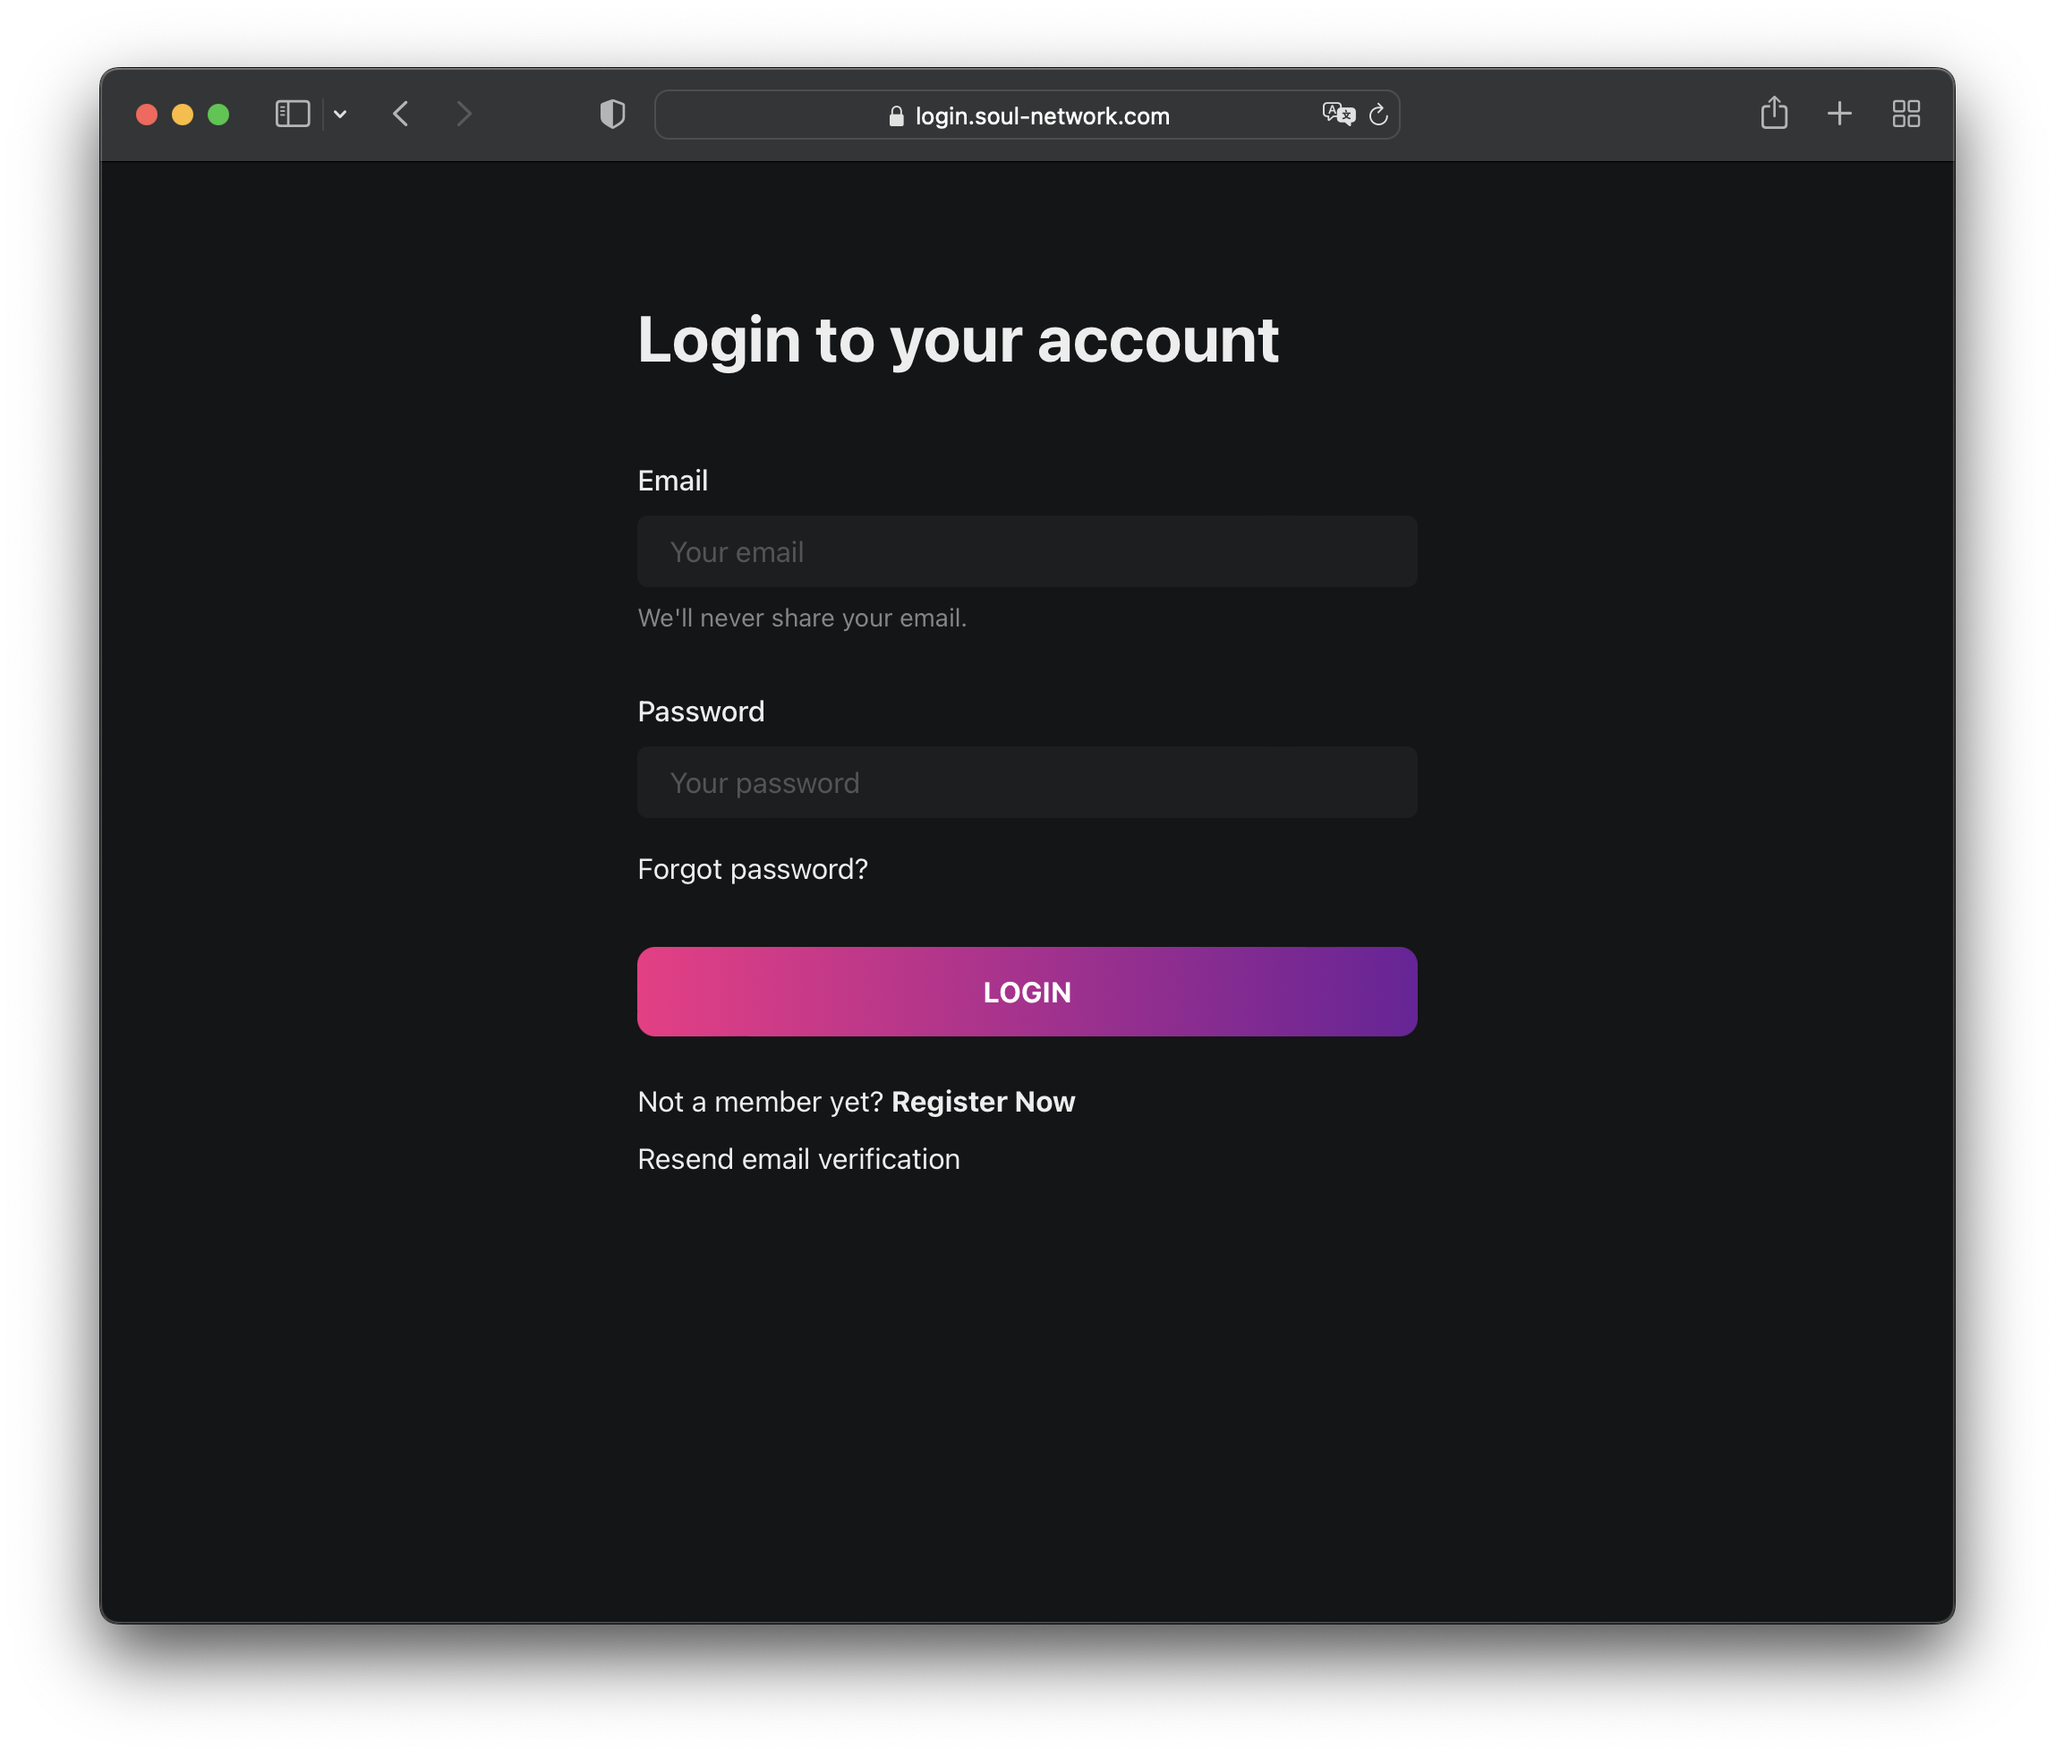
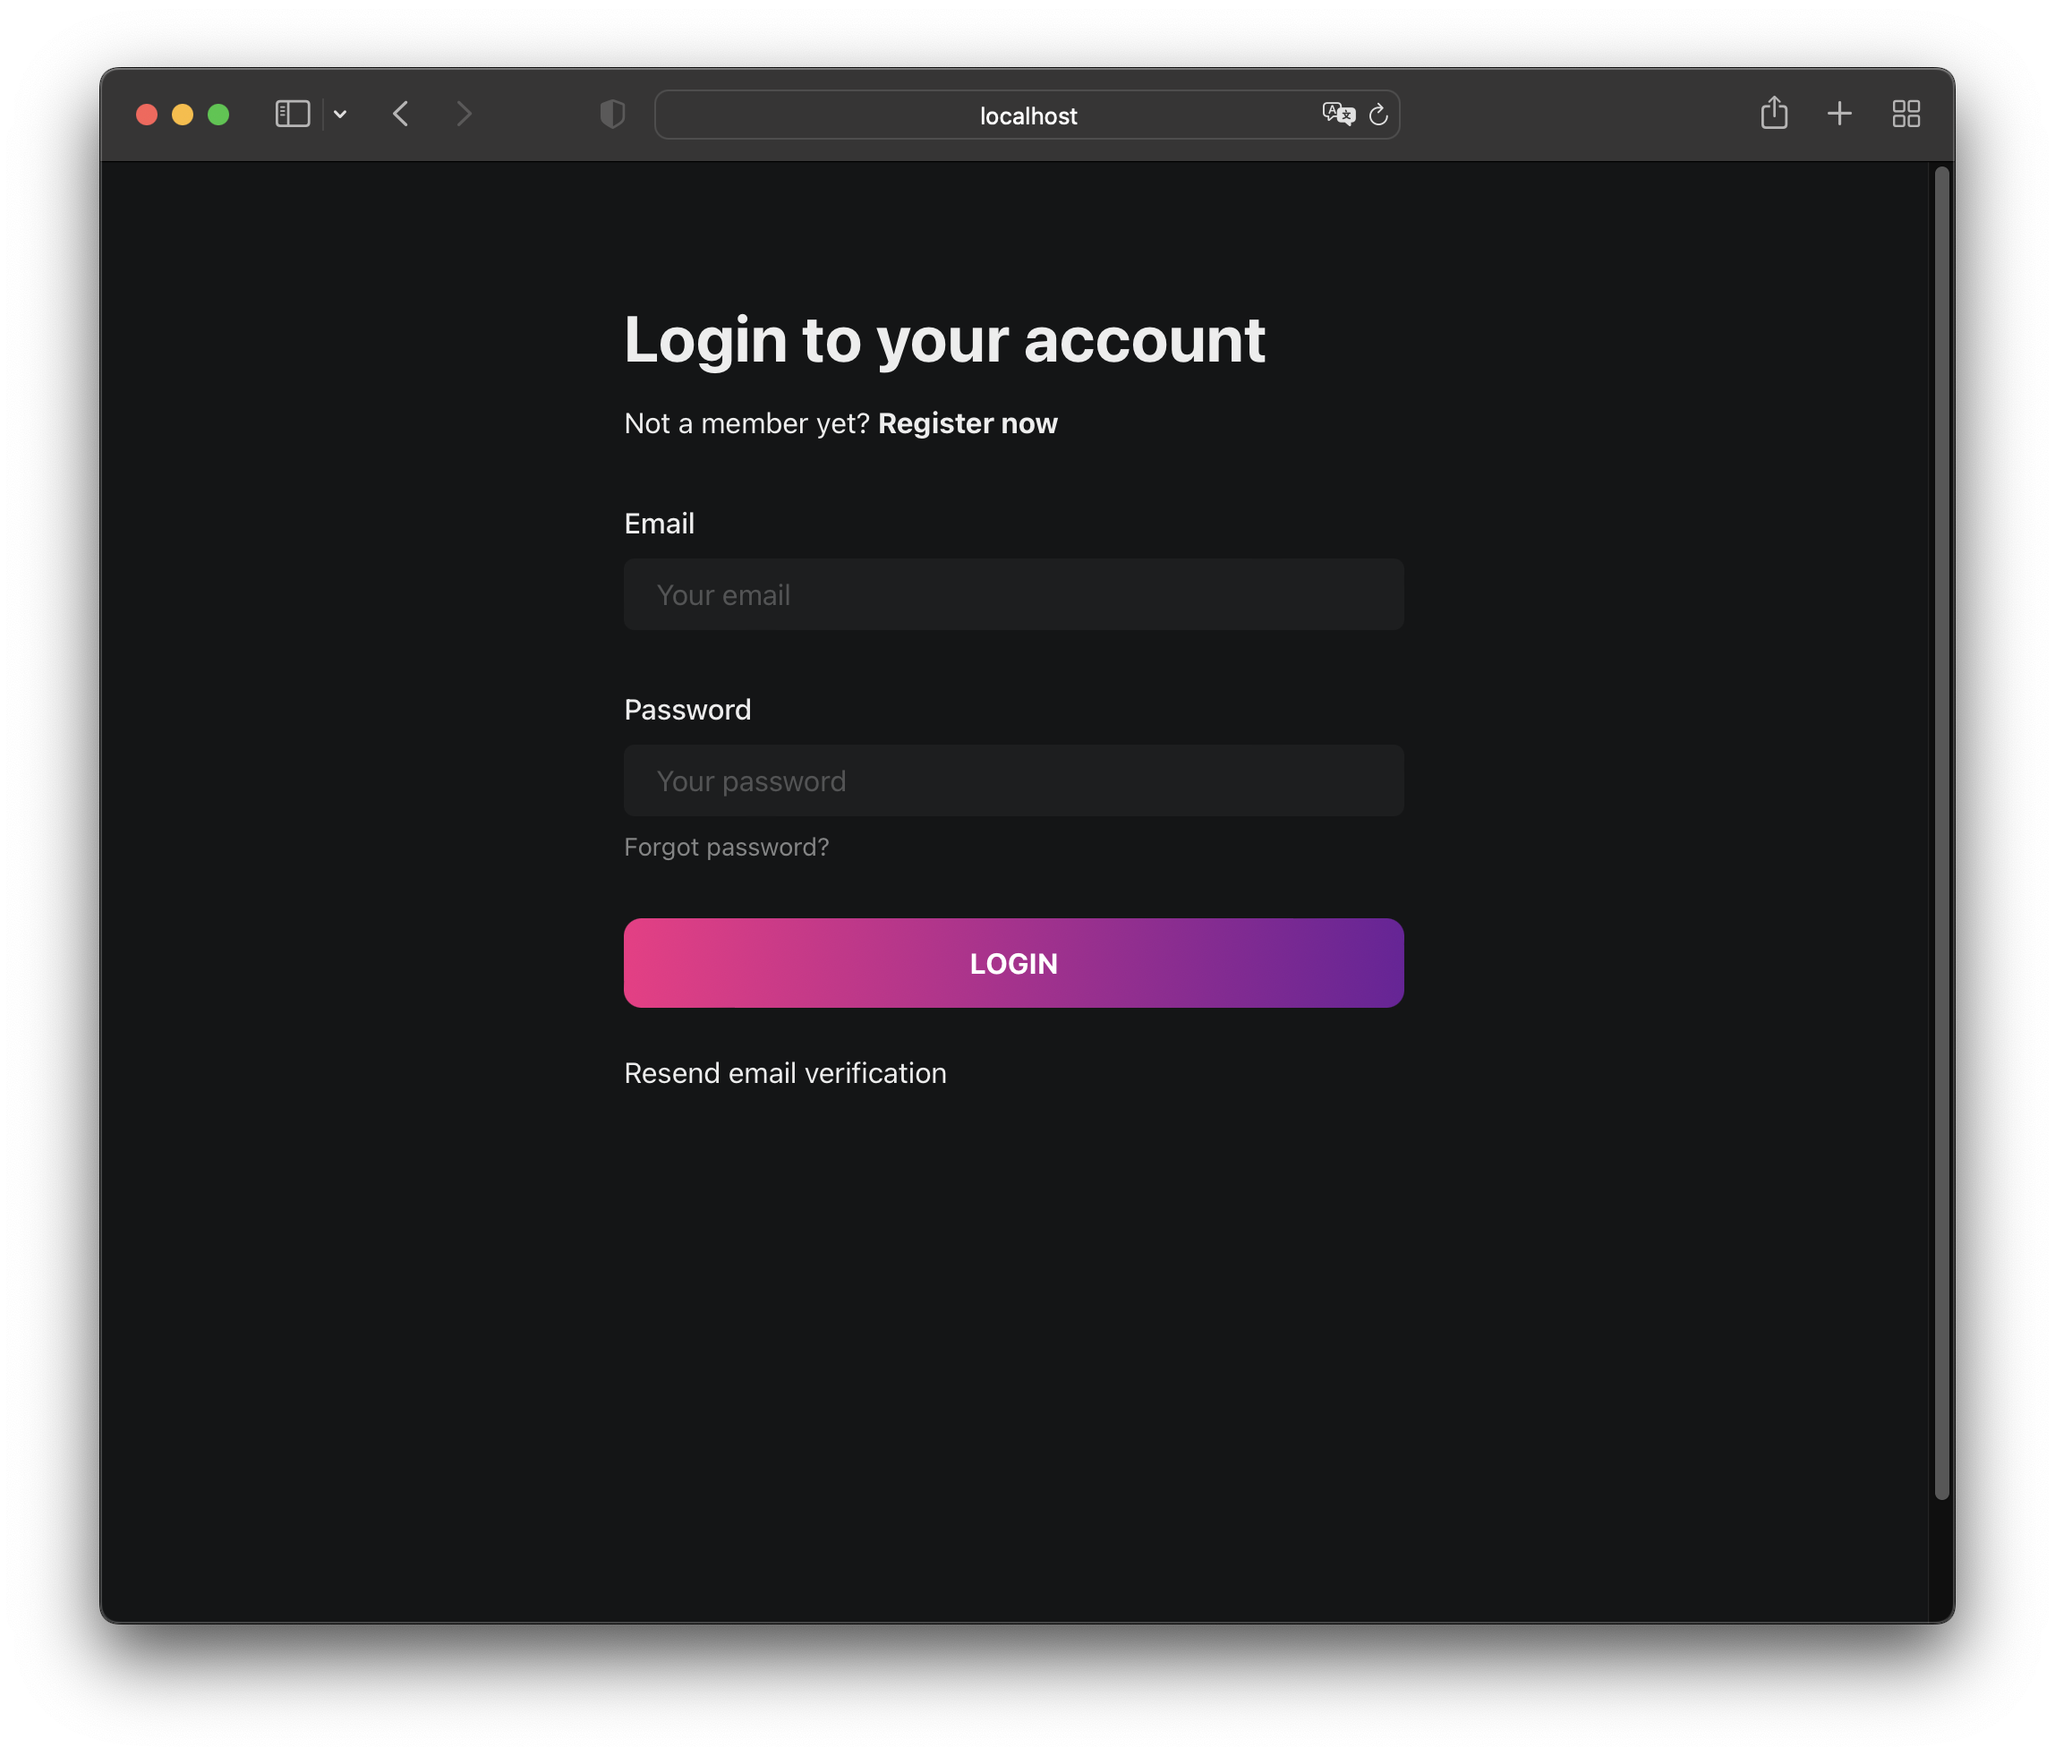
Reposition error message and refactored components (#33)
* Moved error message upwards and refactored other components

* updated screenshot

diff --git a/src/Pages/Login/Form.tsx b/src/Pages/Login/Form.tsx
@@ -6,7 +6,6 @@ import {
   FormHelperText,
   FormErrorMessage,
   Link,
-  VStack,
   Box,
 } from '@chakra-ui/react';
 import { useNavigate, useLocation } from 'react-router-dom';
@@ -96,9 +95,6 @@ export default function Form({
             variant="filled"
             placeholder="Your email"
           />
-          {!formik.errors.email && (
-            <FormHelperText>We&apos;ll never share your email.</FormHelperText>
-          )}
           {formik.errors.email && (
             <FormErrorMessage>{formik.errors.email}</FormErrorMessage>
           )}
@@ -119,13 +115,13 @@ export default function Form({
             variant="filled"
             placeholder="Your password"
           />
+          <FormHelperText>
+            <Link href="/request-password-reset">Forgot password?</Link>
+          </FormHelperText>
           {formik.errors.password && (
             <FormErrorMessage>{formik.errors.password}</FormErrorMessage>
           )}
         </FormControl>
-        <Box mt={4}>
-          <Link href="/request-password-reset">Forgot password?</Link>
-        </Box>
         <Box mt={8}>
           <FancyButton
             isLoading={isLoggingIn}
@@ -136,17 +132,11 @@ export default function Form({
           </FancyButton>
         </Box>
       </form>
-      <VStack mt={6} alignItems="left">
-        <p>
-          Not a member yet?{' '}
-          <Link href={`/register/${search}`}>
-            <strong>Register Now</strong>
-          </Link>
-        </p>
+      <Box mt={6}>
         <Link href="/request-email-verification">
           Resend email verification
         </Link>
-      </VStack>
+      </Box>
     </>
   );
 }

diff --git a/src/Pages/Login.tsx b/src/Pages/Login.tsx
@@ -1,14 +1,17 @@
 import { useState, useEffect } from 'react';
+import { Text, Link } from '@chakra-ui/react';
+import { useLocation } from 'react-router-dom';
 
 import Form from './Login/Form';
 
+import Title from '../components/Title';
 import Page from '../components/Page';
 import useQuery from '../hooks/useQuery';
-import Title from '../components/Title';
 
 export default function Login() {
   const query = useQuery();
   const [errors, setErrors] = useState<string[]>([]);
+  const { search } = useLocation();
 
   const insufficientParams =
     !query.get('platformId') || !query.get('callback') || !query.get('state');
@@ -22,17 +25,29 @@ export default function Login() {
   }, [query]);
 
   return (
-    <Page errors={errors}>
-      <>
-        <Title title="Login to your account" />
-        <Form
-          setErrors={setErrors}
-          callback={query.get('callback')!}
-          platformId={parseInt(query.get('platformId')!, 10)}
-          disabled={insufficientParams}
-          state={query.get('state')!}
+    <Page
+      errors={errors}
+      title={
+        <Title
+          title="Login to your account"
+          subTitle={
+            <Text>
+              Not a member yet?{' '}
+              <Link href={`/register/${search}`}>
+                <strong>Register now</strong>
+              </Link>
+            </Text>
+          }
         />
-      </>
+      }
+    >
+      <Form
+        setErrors={setErrors}
+        callback={query.get('callback')!}
+        platformId={parseInt(query.get('platformId')!, 10)}
+        disabled={insufficientParams}
+        state={query.get('state')!}
+      />
     </Page>
   );
 }

diff --git a/src/components/Page.tsx b/src/components/Page.tsx
@@ -6,15 +6,16 @@ import Footer from './Page/Footer';
 export default function Page({
   errors,
   children,
+  title,
 }: React.PropsWithChildren<Props>) {
   return (
     <Box>
       <Box paddingTop="40px" minHeight="100vh">
         <Box p={8} maxWidth="500px" marginLeft="auto" marginRight="auto">
-          {children}
-          <VStack spacing={2} mt={8}>
-            {errors.length > 0 &&
-              errors.map((error) => (
+          {title}
+          {errors.length > 0 && (
+            <VStack spacing={2} mb="32px">
+              {errors.map((error) => (
                 <Alert
                   status="error"
                   variant="solid"
@@ -25,7 +26,10 @@ export default function Page({
                   {error}
                 </Alert>
               ))}
-          </VStack>
+            </VStack>
+          )}
+
+          {children}
         </Box>
       </Box>
       <Footer />
@@ -35,4 +39,5 @@ export default function Page({
 
 type Props = {
   errors: string[];
+  title?: React.ReactNode;
 };

diff --git a/src/Pages/Register.tsx b/src/Pages/Register.tsx
@@ -12,18 +12,22 @@ export default function Register() {
   const { search } = useLocation();
 
   return (
-    <Page errors={errors}>
-      <Title
-        title="Create new account"
-        subTitle={
-          <Text>
-            Already a member?{' '}
-            <Link href={`/${search}`} target="_self" whiteSpace="nowrap">
-              Log in
-            </Link>
-          </Text>
-        }
-      />
+    <Page
+      errors={errors}
+      title={
+        <Title
+          title="Create new account"
+          subTitle={
+            <Text>
+              Already a member?{' '}
+              <Link href={`/${search}`} target="_self" whiteSpace="nowrap">
+                <strong>Log in</strong>
+              </Link>
+            </Text>
+          }
+        />
+      }
+    >
       <Form setErrors={setErrors} />
     </Page>
   );

diff --git a/src/Pages/ResetPassword.tsx b/src/Pages/ResetPassword.tsx
@@ -13,21 +13,18 @@ export default function ResetPassword() {
   const [isSuccess, setIsSuccess] = useState(false);
 
   return (
-    <Page errors={errors}>
+    <Page errors={errors} title={<Title title="Reset new password" />}>
       {isSuccess ? (
         <Status
           status="Password reset!"
           message="Success! Please close this page and sign in again."
         />
       ) : (
-        <>
-          <Title title="Reset new password" />
-          <Form
-            setErrors={setErrors}
-            setIsSuccess={setIsSuccess}
-            token={query.get('token')}
-          />
-        </>
+        <Form
+          setErrors={setErrors}
+          setIsSuccess={setIsSuccess}
+          token={query.get('token')}
+        />
       )}
     </Page>
   );

diff --git a/src/Pages/RequestEmailVerification.tsx b/src/Pages/RequestEmailVerification.tsx
@@ -11,7 +11,7 @@ export default function RequestEmailVerification() {
   const [isSuccess, setIsSuccess] = useState(false);
 
   return (
-    <Page errors={errors}>
+    <Page errors={errors} title={<Title title="Resend email verification" />}>
       {isSuccess ? (
         <Status
           status="Request submitted!"
@@ -22,10 +22,7 @@ export default function RequestEmailVerification() {
           }
         />
       ) : (
-        <>
-          <Title title="Resend email verification" />
-          <Form setErrors={setErrors} setIsSuccess={setIsSuccess} />
-        </>
+        <Form setErrors={setErrors} setIsSuccess={setIsSuccess} />
       )}
     </Page>
   );

diff --git a/src/Pages/RequestPasswordReset.tsx b/src/Pages/RequestPasswordReset.tsx
@@ -11,7 +11,7 @@ export default function RequestPasswordReset() {
   const [isSuccess, setIsSuccess] = useState(false);
 
   return (
-    <Page errors={errors}>
+    <Page errors={errors} title={<Title title="Request new password" />}>
       {isSuccess ? (
         <Status
           status="Request submitted!"
@@ -22,10 +22,7 @@ export default function RequestPasswordReset() {
           }
         />
       ) : (
-        <>
-          <Title title="Request new password" />
-          <Form setErrors={setErrors} setIsSuccess={setIsSuccess} />
-        </>
+        <Form setErrors={setErrors} setIsSuccess={setIsSuccess} />
       )}
     </Page>
   );

diff --git a/src/components/Title.tsx b/src/components/Title.tsx
@@ -2,11 +2,11 @@ import { Box, Text } from '@chakra-ui/react';
 
 export default function Title({ title, subTitle }: Props) {
   return (
-    <Box marginBottom="40px">
+    <Box marginBottom="32px">
       <Text fontSize="4xl" fontWeight="bold">
         {title}
       </Text>
-      {subTitle}
+      <Box mt="8px">{subTitle}</Box>
     </Box>
   );
 }

diff --git a/cypress/e2e/login.spec.ts b/cypress/e2e/login.spec.ts
@@ -30,7 +30,7 @@ describe('Login', () => {
 
   it('navigates to register', () => {
     cy.visit(rootPage);
-    cy.contains('Register Now').click();
+    cy.contains('Register now').click();
     cy.location('pathname').should('eq', '/register/');
     cy.location('search').should(
       'eq',

diff --git a/src/components/Page.test.tsx b/src/components/Page.test.tsx
@@ -5,7 +5,7 @@ import Page from './Page';
 describe(Page, () => {
   it('renders', () => {
     const { container } = render(
-      <Page errors={[]}>
+      <Page errors={[]} title="TITLE">
         <p>TEST</p>
       </Page>,
     );
